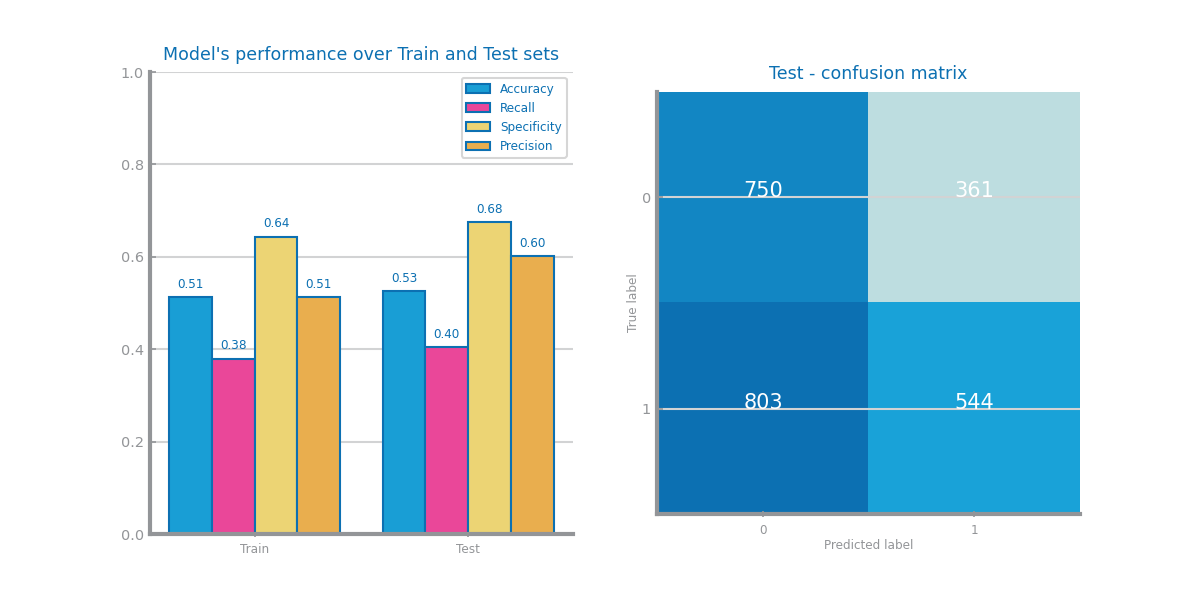
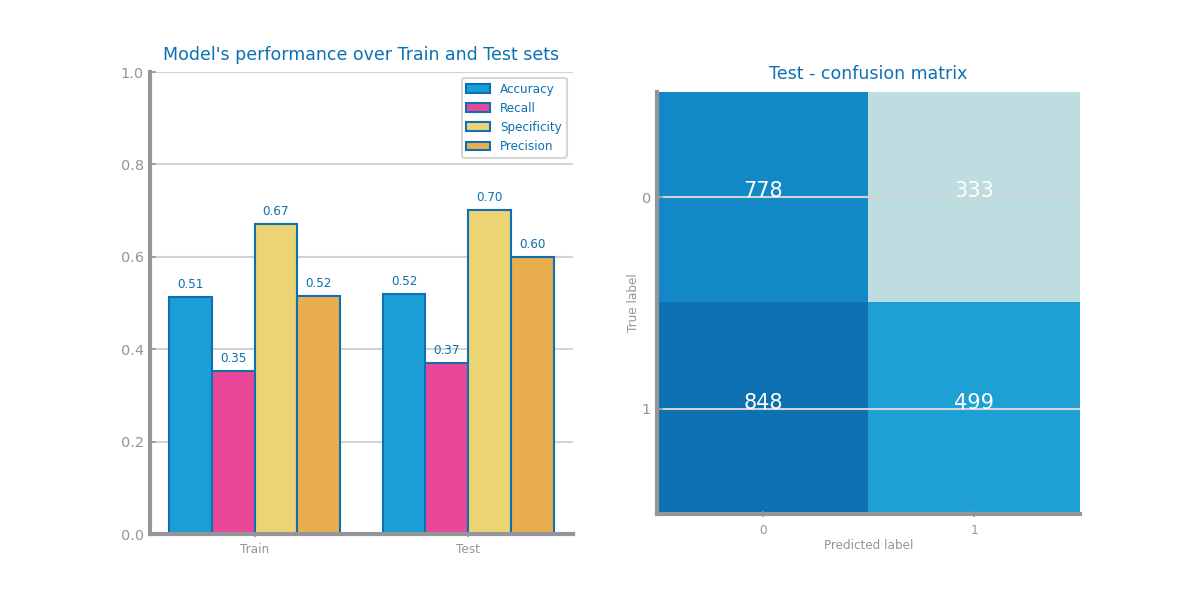
bug fix

diff --git a/climate_domain/classification/naive_bayes_outliers.py b/climate_domain/classification/naive_bayes_outliers.py
@@ -31,8 +31,8 @@ for i in range(len(file_names)):
 
     # Train
     train = read_csv(f'{file_path}_train.csv')
-    unnamed_column = train.columns[0]
-    train = train.drop([unnamed_column], axis=1)
+    # unnamed_column = train.columns[0]
+    # train = train.drop([unnamed_column], axis=1)
     trnY = train.pop(target).values
     trnX = train.values
     labels = unique(trnY)
@@ -40,8 +40,8 @@ for i in range(len(file_names)):
 
     # Test
     test = read_csv(f'{file_path}_test.csv')
-    unnamed_column = test.columns[0]
-    test = test.drop([unnamed_column], axis=1)
+    # unnamed_column = test.columns[0]
+    # test = test.drop([unnamed_column], axis=1)
     tstY = test.pop(target).values
     tstX = test.values
     

diff --git a/climate_domain/classification/knn_outliers.py b/climate_domain/classification/knn_outliers.py
@@ -36,16 +36,16 @@ for i in range(len(file_names)):
     file_path = file_paths[i]
 
     train = read_csv(f'{file_path}_train.csv')
-    unnamed_column = train.columns[0]
-    train = train.drop([unnamed_column], axis=1)
+    # unnamed_column = train.columns[0]
+    # train = train.drop([unnamed_column], axis=1)
     trnY = train.pop(target).values
     trnX = train.values
     labels = unique(trnY)
     labels.sort()
 
     test = read_csv(f'{file_path}_test.csv')
-    unnamed_column = test.columns[0]
-    test = test.drop([unnamed_column], axis=1)
+    # unnamed_column = test.columns[0]
+    # test = test.drop([unnamed_column], axis=1)
     tstY = test.pop(target).values
     tstX = test.values
 
